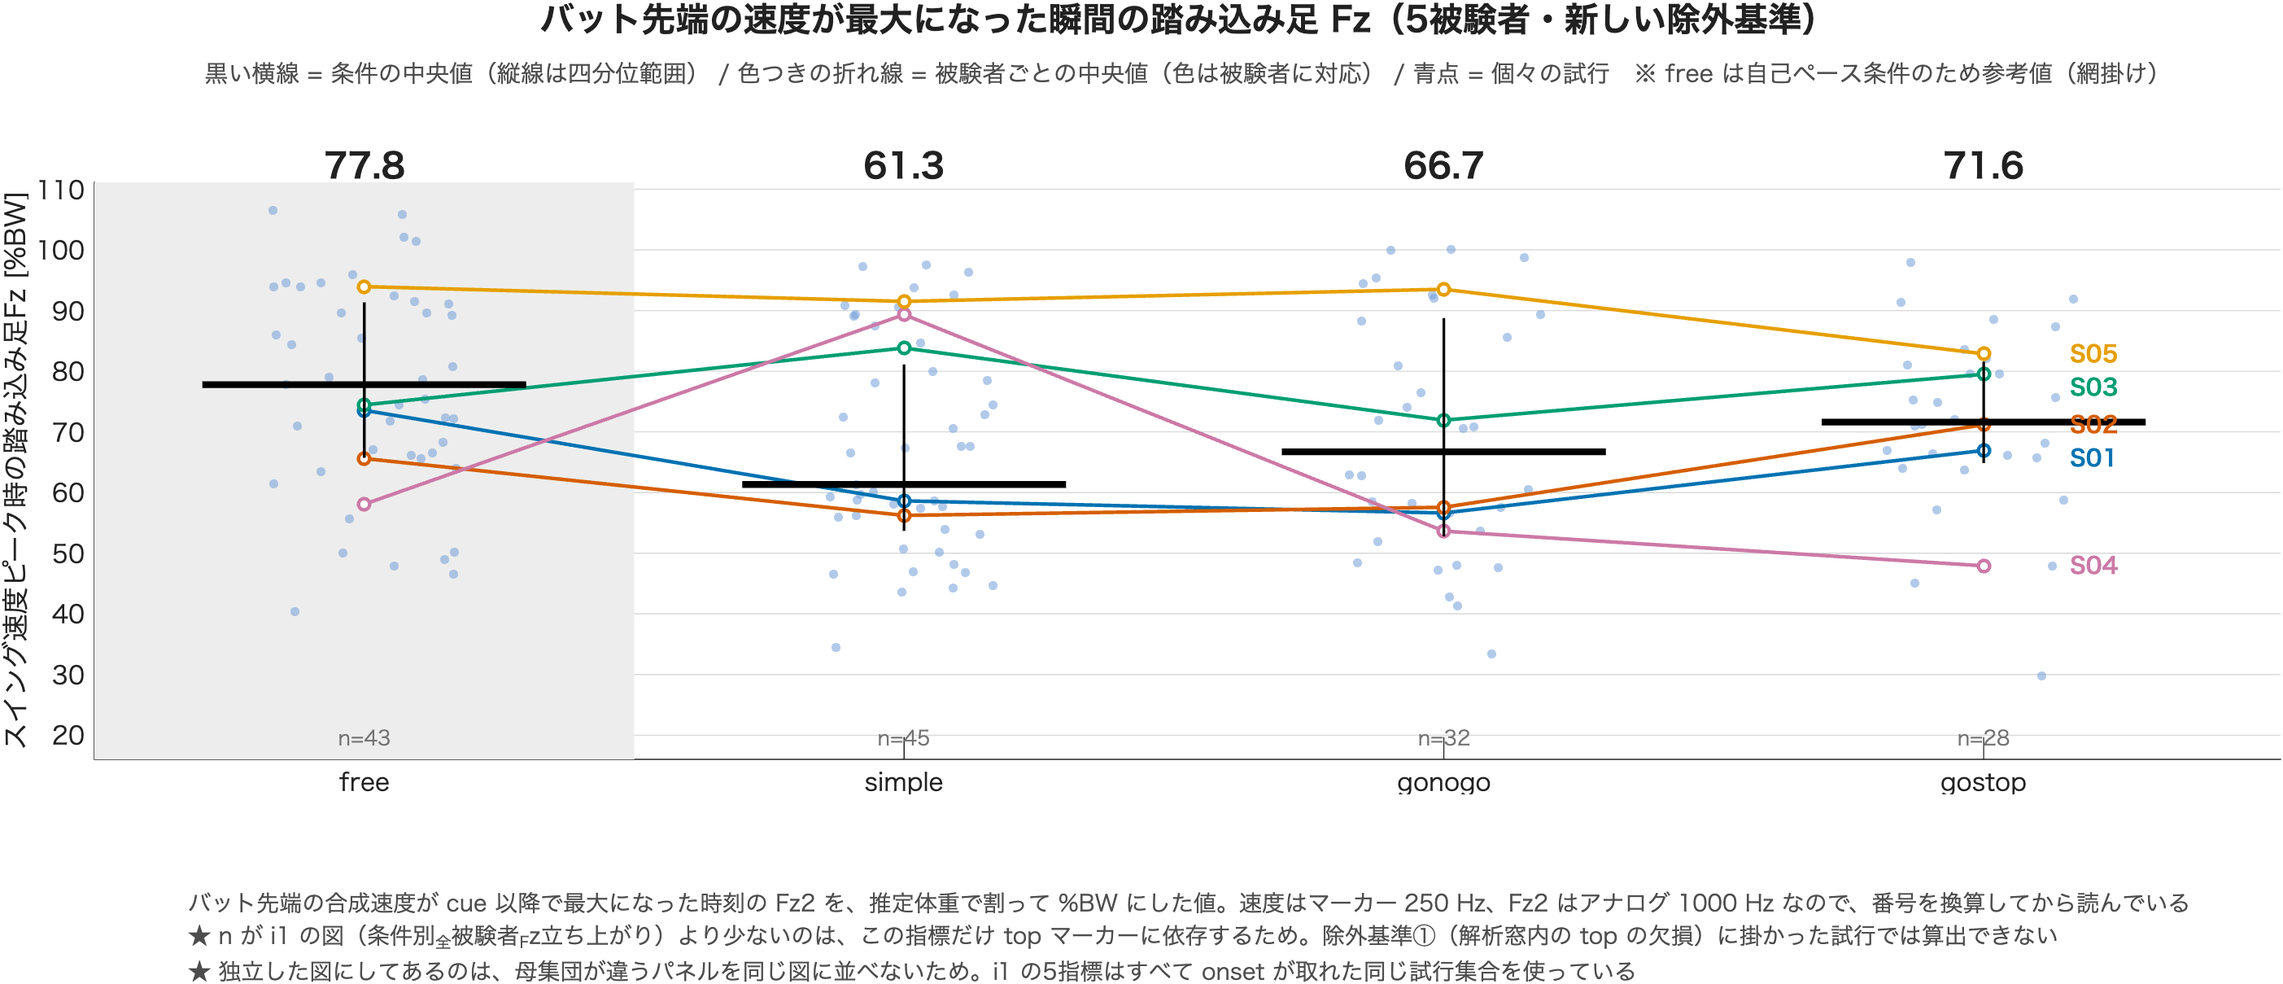
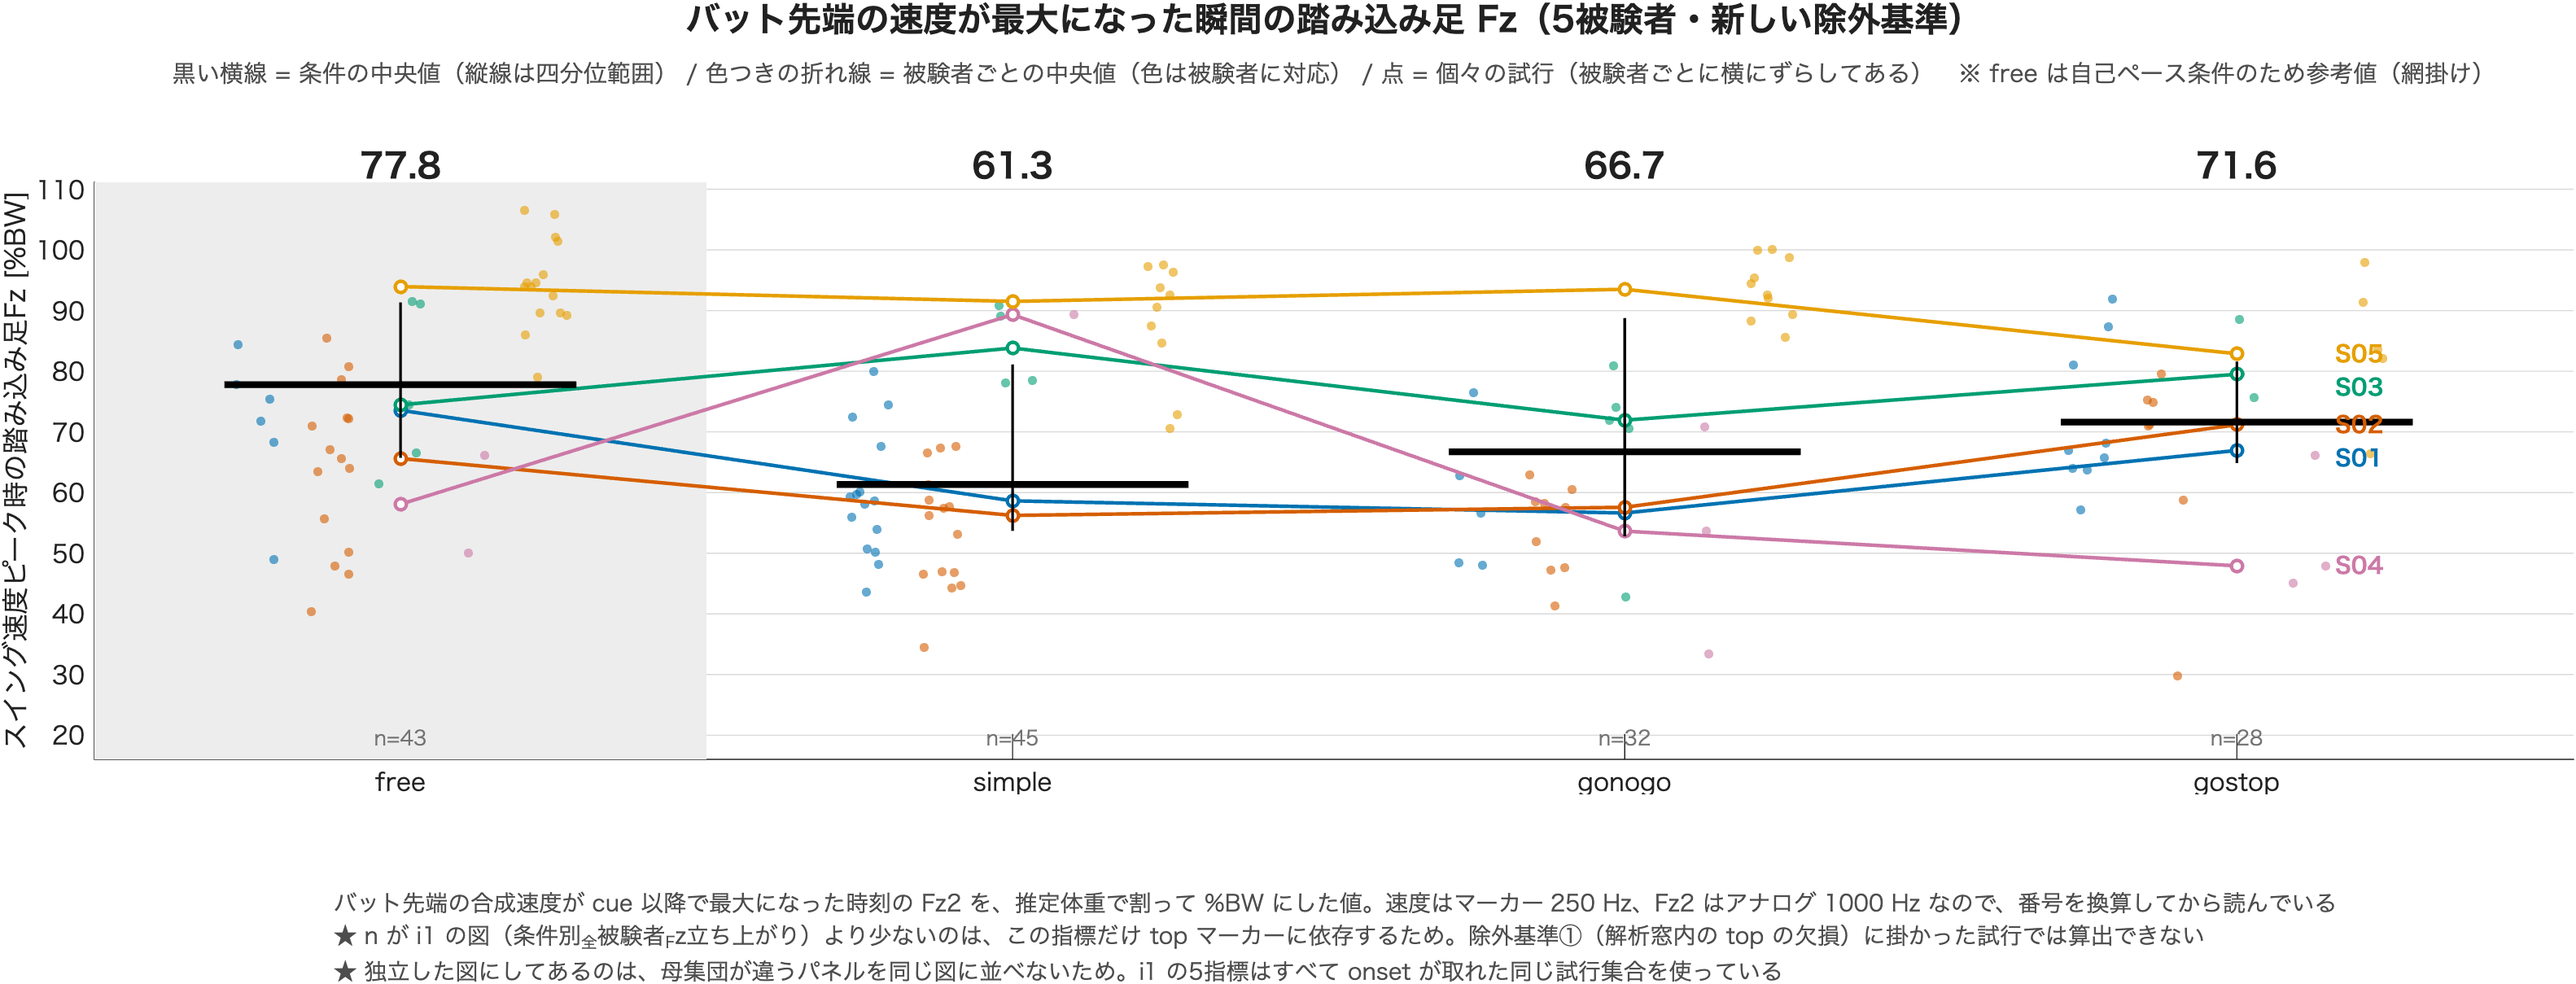
5.8 試行の点を被験者ごとに色分けして散らし、条件の間隔と図幅を広げた
- i1・i4: 試行の点を SubjColor で塗り、条件の中で被験者ごとに横へずらす
  （SubjOffset ±0.38、ジッタ ±0.06）。凡例も修正
- 条件の間隔 CondPitch を 1.0 → 1.6 に。ずらし幅は据え置くので条件間に
  0.72 の隙間が空く。x 座標はすべて xC 経由にした
- 図の幅を拡大（i1 1900 px、個別グラフ 1150 px、i4 1700 px）。幅を据え置くと
  1条件あたりの px が減り、点の塊が細くなるだけで読みやすくならない
- 中央値の横線を ±0.46 の絶対値指定に（点の広がりに合わせる）
- log/2026-09-15_01.md を追加。フィルタ設定の整理（床反力 30/50 Hz、マーカーは
  未平滑）と、ピーク付近のギザギザが 8〜12 Hz の接地衝撃応答である調査結果を記録

diff --git a/Project002_反応時間課題バットスイング（加藤）/log/2026-09-15_01.md b/Project002_反応時間課題バットスイング（加藤）/log/2026-09-15_01.md
@@ -1,0 +1,160 @@
+作業日：2026-09-15（まとめは 2026-09-16）
+
+ユーザー：加藤 和太郎（student）
+
+セッションの概要：
+
+**フィルタ設定の確認と、ピーク付近のギザギザの原因調査、および散布の描き方の改善。**
+指標の定義と除外基準には手を触れていない。
+
+- **フィルタの整理。** 床反力は 2 次バターワース低域通過を `filtfilt`（零位相・往復、
+  実効 4 次）で、GRF 指標が 30 Hz、RT 検出が 50 Hz。**マーカーにはフィルタを
+  かけていない**ことが分かった。本番の m3 は 30 Hz で平滑化してから速度を出すので、
+  同じ「バット先端のピーク速度」でも 5.6/5.8 と m3 の値は一致しない
+- **ピーク付近のギザギザは実際の力の振動だと確認した。** 8〜12 Hz。計測ノイズでも
+  フィルタの取りこぼしでもなく、踏み込み足の接地で励起されて減衰する衝撃応答。
+  詳細は「2.」
+- **試行の点を被験者ごとに色分けし、横にずらした。** 1 色で重ねていたので、
+  点の塊がどの被験者のものか読めなかった
+- **条件の間隔と図の幅を広げた。** 1 回目の試み（`CondPitch` の導入）は
+  **見た目が1ミリも変わらなかった**。条件の間隔とずらし幅を同じ比率で広げたため、
+  軸が自動で範囲を合わせにきて同じ絵になっていた。2 回目で修正
+
+備考（未解決課題など）:
+
+**このセッションで見つかった、検討が必要な事項**
+
+- **マーカーが未平滑のまま微分されている。** `x3_DataChecked` の `Markers` は
+  x2 の `interp_nan_spline` で短い欠損を埋めただけで、平滑化されていない。
+  `p0`（5.6）と `i0`（5.8）はこれを `diff3p` で直接微分している。微分はノイズを
+  増幅するので、**m3 の結果よりピーク速度が高く出ているはず**。MT の終点
+  （`tPeakVel`）とスイング速度ピーク時の Fz にも効く。そろえるか要検討
+- **ピーク値が 8〜12 Hz の振動の山を拾っている。** 数 %BW 上振れしている可能性が
+  ある。二峰性の試行では、どちらの山が選ばれるかが振動の位相次第で変わる
+  （S02 gonogo 行13 で後続の山が 2.8% 上回って選ばれたのと同じ性質）。
+  対処するなら指標算出用だけ遮断を 10 Hz 程度に下げる方法があるが、
+  本番の m3 が 30 Hz なので照合できなくなる
+- **「2.」の調査結果は技術説明.md に移したほうがよい**（今はログにしか無い）
+
+**持ち越している課題**
+
+1. S03・S05 の構えが検出アルゴリズムの前提と合っていない（2026-09-14 のログ）
+2. onset 検出が cue より前に動き出した試行を拾えない（同上）
+3. `i0` の Go 判定が 5.6 と違う
+4. `技術説明.md` §（704 行あたり）の `g0` との n の差の記述が古い
+5. S02 gostop 試行2 の Fz2 がゼロ点ずれの疑い
+6. `i4` の新指標は S04 が 48 本中 9 本しか残らない
+
+---
+
+## AIとの個別のやり取り
+
+### 1. フィルタリング周波数
+
+**指示・質問：**
+これらのグラフを算出するにあたり、フィルタリング周波数は何Hzですか？
+
+**決定事項・結果：**
+
+床反力は 2 種類。どちらも 2 次バターワース低域通過を `filtfilt` で適用（実効 4 次、位相ずれなし）。
+
+| 用途 | 遮断周波数 | 由来 |
+|---|---|---|
+| GRF 指標（Fz2 ピーク、RFD、スイング速度ピーク時の Fz） | 30 Hz | `Prm.Fc`。本番の m3 と同じ |
+| RT 検出（Fx、接地判定の Fz2） | 50 Hz | `PrmRT.Fc`。5.6_プロット と同じ |
+
+2 種類あるのは、GRF 指標を本番パイプラインと、RT 検出を 5.6 と突き合わせられるようにするため。
+`filtfilt` は零位相なので、両者の時刻を引き算しても時間のずれは生じない。
+
+**マーカーはフィルタなし。** `x3_DataChecked` の `Markers` をそのまま `diff3p` で微分している。
+x2 は `interp_nan_spline` による欠損補間のみ、x3 は保存のみで、どちらも平滑化しない。
+本番の m3 は `butter(2, 30/(fs/2))` でマーカーを平滑化してから速度を出すので、値が一致しない。
+
+---
+
+### 2. ピーク付近のギザギザの原因
+
+**指示・質問：**
+Fzの代表思考を確認すると、いくつかピーク付近でギザギザしている様子が確認できます。この事象が起こっている理由について考察できますか？
+
+**AIの対応：**
+224 試行について、静止立位とピーク後の帯域別振幅、接地からの時間経過、
+両プレートの比較、RFD との相関を調べた。
+
+**決定事項・結果：結論は「8〜12 Hz の実際の力の振動」**
+
+**(1) ノイズではない。** 帯域別振幅（RMS 相当 [N]、224 試行の中央値）
+
+| 帯域 | 静止立位 | ピーク後 | 比 |
+|---|---|---|---|
+| 4–8 Hz | 0.10 | 67.7 | 691 倍 |
+| 8–12 Hz | 0.09 | 20.8 | 227 倍 |
+| 12–20 Hz | 0.12 | 19.5 | 158 倍 |
+| 20–30 Hz | 0.15 | 4.6 | 31 倍 |
+| 30–50 Hz | 0.22 | 1.5 | 7 倍 |
+| 100–300 Hz | 0.69 | 0.74 | 1.1 倍 |
+
+電気的なノイズ床は全帯域で 0.1〜0.7 N しかなく、ギザギザの振幅（数十 N）はその 100 倍以上。
+
+**(2) フィルタの問題でもない。** 図の山と山の間隔は中央値 107 ms（= 9.3 Hz）で、
+30 Hz の遮断はこの成分をほぼ素通しする。プレート共振なら数百 Hz に出るはずだが、
+100–300 Hz は静止時と同じ（1.1 倍）なので共振でもない。
+
+**(3) 接地で励起されて減衰している。** 8–20 Hz 成分の振幅 [N]
+
+| 区間 | 振幅 |
+|---|---|
+| onset〜接地（接地前） | 5.1 |
+| 接地 0–100 ms | 33.1 |
+| 100–200 ms | 35.5 |
+| 200–300 ms | 35.8 |
+| 300–400 ms | 25.1 |
+| 400–500 ms | 14.5 |
+
+接地前はほぼ無く、接地とともに 7 倍に跳ね上がり、300 ms 以降で減衰する。典型的な衝撃応答。
+
+**(4) 傍証。** 踏み込み足のほうが背足より 3〜5 倍大きい（33–76 N 対 13–18 N）。
+振幅と RFD に弱い正の相関（Spearman rho = 0.24, p < 0.001）。
+被験者ごとの振幅は体重比 6.3〜9.1 %BW とよく揃っており、特定の被験者や
+プレートの異常ではない。
+
+**考察：** 接地の衝撃で下肢の軟部組織と体節が 8〜12 Hz で振動している。
+走行の床反力でいう impact transient と同じ現象で、軟部組織の振動として
+報告される帯域に入る。
+
+---
+
+### 3. 試行の点を被験者ごとに色分けして横にずらす
+
+**指示・質問：**
+個別グラフの薄青ドットについてですが、被験者ごとにラインと同じ色を使って塗り直し、横軸を少しずつずらしてグラフを作成したい。
+
+**決定事項・結果：**
+
+- `i1`・`i4` に `SubjOffset` を追加。5 名を等間隔に並べ、その位置にジッタを載せる
+- 点の色を `SubjColor`（折れ線と同じ）にした
+- 凡例を「青点 = 個々の試行」→「点 = 個々の試行（被験者ごとに横にずらしてある）」に修正
+- `i2`（変動係数）は 1 点 = 1 被験者で試行の散布がないので触っていない
+
+---
+
+### 4. ずらし幅と条件の間隔を広げる
+
+**指示・質問：**
+もう少し横軸をずらせますか？／条件の間隔も広げてください
+
+**AIの対応：**
+1 回目は `CondPitch` を導入し、ずらし幅も同じ比率で広げた。
+**これは見た目が一切変わらなかった**（軸が自動で範囲を合わせるため）。
+2 回目で「条件の間隔だけ」を広げ、図の幅も上げた。
+
+**決定事項・結果：**
+
+- ずらし幅 ±0.28 → **±0.38**、ジッタ ±0.04 → **±0.06**（合計 ±0.44）
+- 条件の間隔 `CondPitch` 1.0 → **1.6**。ずらし幅は据え置くので、条件の間に 0.72 の隙間
+- 図の幅：i1 1500 → **1900 px**、個別グラフ 760 → **1150 px**、i4 1500 → **1700 px**。
+  幅を据え置くと 1 条件あたりの px が減り、点の塊が細くなるだけで読みやすくならない
+- 中央値の黒い横線を ±0.30 → **±0.46**（絶対値指定）。点だけ広げると、
+  横線が真ん中の被験者のものに見えてしまうため
+- x 座標はすべて `xC` を経由させた。直に `ic` を使うと、間隔を変えたときに
+  片方だけ取り残されてずれる
